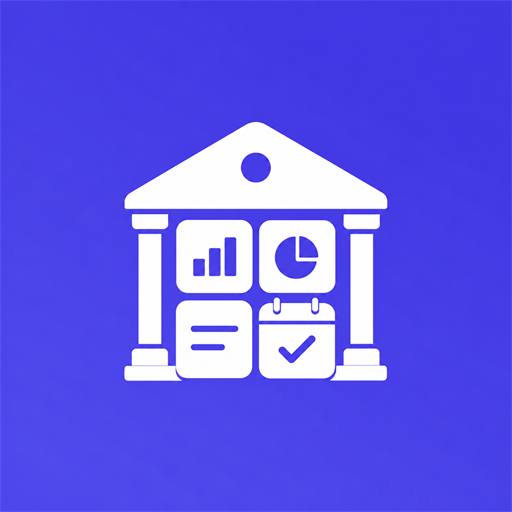
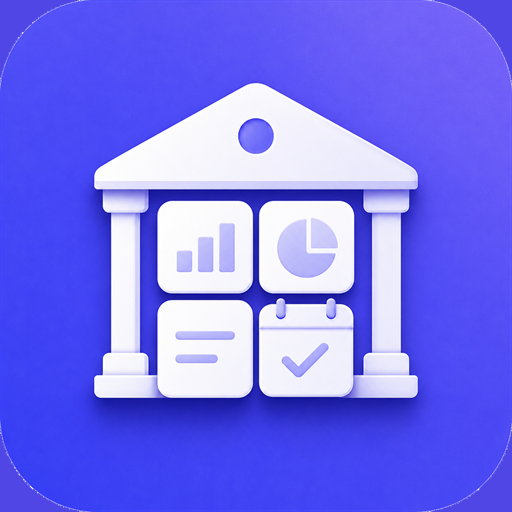
Updates

diff --git a/sw.js b/sw.js
@@ -1,1 +1,1 @@
-if(!self.define){let e,s={};const i=(i,n)=>(i=new URL(i+".js",n).href,s[i]||new Promise(s=>{if("document"in self){const e=document.createElement("script");e.src=i,e.onload=s,document.head.appendChild(e)}else e=i,importScripts(i),s()}).then(()=>{let e=s[i];if(!e)throw new Error(`Module ${i} didn’t register its module`);return e}));self.define=(n,r)=>{const a=e||("document"in self?document.currentScript.src:"")||location.href;if(s[a])return;let l={};const o=e=>i(e,a),c={module:{uri:a},exports:l,require:o};s[a]=Promise.all(n.map(e=>c[e]||o(e))).then(e=>(r(...e),l))}}define(["./workbox-63c18b4d"],function(e){"use strict";self.skipWaiting(),e.clientsClaim(),e.precacheAndRoute([{url:"registerSW.js",revision:"01feedaaee858261437ee36a95e5b0f5"},{url:"og-image.png",revision:"e5f325f8e57c8e29061d74c426bc3ab9"},{url:"mask-icon.svg",revision:"17a7c0df4b7935a849c2b92e3653cf59"},{url:"index.html",revision:"8eb09bfa2f98eb8b0834061c90863fc7"},{url:"icon.svg",revision:"f9aa3b03632e62e788f9b9372555b581"},{url:"icon-maskable-512.png",revision:"180561c6ed31e1e08f3e5bac0b4f52ac"},{url:"icon-maskable-192.png",revision:"df0dae24049a4fdb909b4f25446707ce"},{url:"icon-512.png",revision:"39393855d6c2c0730896ee270140f774"},{url:"icon-192.png",revision:"dad30ace929b205054b4407604926ae1"},{url:"favicon.ico",revision:"898a4054f8ff0d841a1479698848b114"},{url:"favicon-48.png",revision:"8a36c7af6d992f16b8efbb8dd238d898"},{url:"favicon-32.png",revision:"db1b9d541aecab57dfaf0c5002acb7b6"},{url:"favicon-16.png",revision:"69bf8a9f74080d64c9c84b8792c5397d"},{url:"apple-touch-icon.png",revision:"dab1c22f293b4b77b6bd1b7870f2994f"},{url:"assets/Settings-KMQ6da3e.js",revision:null},{url:"assets/Reports-CGHXIi2c.js",revision:null},{url:"assets/purify.es-Jn2rvFN8.js",revision:null},{url:"assets/Planner-mIQhO5uz.js",revision:null},{url:"assets/Nutrition-3pKaFdPH.js",revision:null},{url:"assets/MiniApp-pNsxGJJ8.js",revision:null},{url:"assets/Login-B6htjh1J.js",revision:null},{url:"assets/jspdf.es.min-DZIkDY1k.js",revision:null},{url:"assets/index.es-0nAElIcc.js",revision:null},{url:"assets/index-DvvV5v5A.css",revision:null},{url:"assets/index-C47PmC-k.js",revision:null},{url:"assets/html2canvas.esm-QH1iLAAe.js",revision:null},{url:"assets/exportService-DAe5WIlr.js",revision:null},{url:"assets/Export-DoZAGbJz.js",revision:null},{url:"assets/Duty-4Dt4R5Ty.js",revision:null},{url:"assets/Directory-D8Kb9rMW.js",revision:null},{url:"assets/Calendar-CtnVAS-_.js",revision:null},{url:"assets/Bells-33-nwUnu.js",revision:null},{url:"assets/Archive-C-_5RfmQ.js",revision:null},{url:"assets/Admin-DyzVG0VI.js",revision:null},{url:"assets/Absenteeism-BKiNDc8Q.js",revision:null},{url:"apple-touch-icon.png",revision:"dab1c22f293b4b77b6bd1b7870f2994f"},{url:"favicon-16.png",revision:"69bf8a9f74080d64c9c84b8792c5397d"},{url:"favicon-32.png",revision:"db1b9d541aecab57dfaf0c5002acb7b6"},{url:"favicon.ico",revision:"898a4054f8ff0d841a1479698848b114"},{url:"icon-192.png",revision:"dad30ace929b205054b4407604926ae1"},{url:"icon-512.png",revision:"39393855d6c2c0730896ee270140f774"},{url:"icon-maskable-192.png",revision:"df0dae24049a4fdb909b4f25446707ce"},{url:"icon-maskable-512.png",revision:"180561c6ed31e1e08f3e5bac0b4f52ac"},{url:"icon.svg",revision:"f9aa3b03632e62e788f9b9372555b581"},{url:"mask-icon.svg",revision:"17a7c0df4b7935a849c2b92e3653cf59"},{url:"og-image.png",revision:"e5f325f8e57c8e29061d74c426bc3ab9"},{url:"manifest.webmanifest",revision:"59817aa609a82de36bf79a464cf8d3df"}],{}),e.cleanupOutdatedCaches(),e.registerRoute(new e.NavigationRoute(e.createHandlerBoundToURL("index.html"))),e.registerRoute(/^https:\/\/fonts\.googleapis\.com\/.*/i,new e.CacheFirst({cacheName:"google-fonts-cache",plugins:[new e.ExpirationPlugin({maxEntries:10,maxAgeSeconds:31536e3}),new e.CacheableResponsePlugin({statuses:[0,200]})]}),"GET"),e.registerRoute(/^https:\/\/fonts\.gstatic\.com\/.*/i,new e.CacheFirst({cacheName:"gstatic-fonts-cache",plugins:[new e.ExpirationPlugin({maxEntries:10,maxAgeSeconds:31536e3}),new e.CacheableResponsePlugin({statuses:[0,200]})]}),"GET"),e.registerRoute(/^https:\/\/.*\.supabase\.co\/.*/i,new e.NetworkFirst({cacheName:"supabase-api-cache",plugins:[new e.ExpirationPlugin({maxEntries:100,maxAgeSeconds:7200})]}),"GET")});
+if(!self.define){let e,s={};const i=(i,n)=>(i=new URL(i+".js",n).href,s[i]||new Promise(s=>{if("document"in self){const e=document.createElement("script");e.src=i,e.onload=s,document.head.appendChild(e)}else e=i,importScripts(i),s()}).then(()=>{let e=s[i];if(!e)throw new Error(`Module ${i} didn’t register its module`);return e}));self.define=(n,r)=>{const a=e||("document"in self?document.currentScript.src:"")||location.href;if(s[a])return;let c={};const o=e=>i(e,a),l={module:{uri:a},exports:c,require:o};s[a]=Promise.all(n.map(e=>l[e]||o(e))).then(e=>(r(...e),c))}}define(["./workbox-63c18b4d"],function(e){"use strict";self.skipWaiting(),e.clientsClaim(),e.precacheAndRoute([{url:"registerSW.js",revision:"01feedaaee858261437ee36a95e5b0f5"},{url:"og-image.png",revision:"e5f325f8e57c8e29061d74c426bc3ab9"},{url:"mask-icon.svg",revision:"17a7c0df4b7935a849c2b92e3653cf59"},{url:"index.html",revision:"b95be95e00725da766fd3be64c628947"},{url:"icon.svg",revision:"f9aa3b03632e62e788f9b9372555b581"},{url:"icon-maskable-512.png",revision:"7da3c8002f290a10e1f7c473569139ee"},{url:"icon-maskable-192.png",revision:"cefe2aecdd1af5a74ced495b7735f384"},{url:"icon-96.png",revision:"f8c74aba986ebf466ee990310f2a50f2"},{url:"icon-72.png",revision:"e34bf856228b270ac63c6585155cabaf"},{url:"icon-512.png",revision:"7da3c8002f290a10e1f7c473569139ee"},{url:"icon-48.png",revision:"128cbf40f610dea869bd8dde7e64e965"},{url:"icon-192.png",revision:"cefe2aecdd1af5a74ced495b7735f384"},{url:"icon-144.png",revision:"998fc92b5fc9b5734cb64df88b1ae5c1"},{url:"favicon.ico",revision:"898a4054f8ff0d841a1479698848b114"},{url:"favicon-48.png",revision:"8a36c7af6d992f16b8efbb8dd238d898"},{url:"favicon-32.png",revision:"db1b9d541aecab57dfaf0c5002acb7b6"},{url:"favicon-16.png",revision:"69bf8a9f74080d64c9c84b8792c5397d"},{url:"apple-touch-icon.png",revision:"929f9406f3178b595012e50e9f2a6599"},{url:"assets/Settings-KMQ6da3e.js",revision:null},{url:"assets/Reports-CGHXIi2c.js",revision:null},{url:"assets/purify.es-Jn2rvFN8.js",revision:null},{url:"assets/Planner-mIQhO5uz.js",revision:null},{url:"assets/Nutrition-3pKaFdPH.js",revision:null},{url:"assets/MiniApp-pNsxGJJ8.js",revision:null},{url:"assets/Login-B6htjh1J.js",revision:null},{url:"assets/jspdf.es.min-DZIkDY1k.js",revision:null},{url:"assets/index.es-0nAElIcc.js",revision:null},{url:"assets/index-DvvV5v5A.css",revision:null},{url:"assets/index-C47PmC-k.js",revision:null},{url:"assets/html2canvas.esm-QH1iLAAe.js",revision:null},{url:"assets/exportService-DAe5WIlr.js",revision:null},{url:"assets/Export-DoZAGbJz.js",revision:null},{url:"assets/Duty-4Dt4R5Ty.js",revision:null},{url:"assets/Directory-D8Kb9rMW.js",revision:null},{url:"assets/Calendar-CtnVAS-_.js",revision:null},{url:"assets/Bells-33-nwUnu.js",revision:null},{url:"assets/Archive-C-_5RfmQ.js",revision:null},{url:"assets/Admin-DyzVG0VI.js",revision:null},{url:"assets/Absenteeism-BKiNDc8Q.js",revision:null},{url:"apple-touch-icon.png",revision:"929f9406f3178b595012e50e9f2a6599"},{url:"favicon-16.png",revision:"69bf8a9f74080d64c9c84b8792c5397d"},{url:"favicon-32.png",revision:"db1b9d541aecab57dfaf0c5002acb7b6"},{url:"favicon.ico",revision:"898a4054f8ff0d841a1479698848b114"},{url:"icon-144.png",revision:"998fc92b5fc9b5734cb64df88b1ae5c1"},{url:"icon-192.png",revision:"cefe2aecdd1af5a74ced495b7735f384"},{url:"icon-512.png",revision:"7da3c8002f290a10e1f7c473569139ee"},{url:"icon-96.png",revision:"f8c74aba986ebf466ee990310f2a50f2"},{url:"icon-maskable-192.png",revision:"cefe2aecdd1af5a74ced495b7735f384"},{url:"icon-maskable-512.png",revision:"7da3c8002f290a10e1f7c473569139ee"},{url:"icon.svg",revision:"f9aa3b03632e62e788f9b9372555b581"},{url:"mask-icon.svg",revision:"17a7c0df4b7935a849c2b92e3653cf59"},{url:"og-image.png",revision:"e5f325f8e57c8e29061d74c426bc3ab9"},{url:"manifest.webmanifest",revision:"4bb21a0b9cddb675187b3334b76ddd3e"}],{}),e.cleanupOutdatedCaches(),e.registerRoute(new e.NavigationRoute(e.createHandlerBoundToURL("index.html"))),e.registerRoute(/^https:\/\/fonts\.googleapis\.com\/.*/i,new e.CacheFirst({cacheName:"google-fonts-cache",plugins:[new e.ExpirationPlugin({maxEntries:10,maxAgeSeconds:31536e3}),new e.CacheableResponsePlugin({statuses:[0,200]})]}),"GET"),e.registerRoute(/^https:\/\/fonts\.gstatic\.com\/.*/i,new e.CacheFirst({cacheName:"gstatic-fonts-cache",plugins:[new e.ExpirationPlugin({maxEntries:10,maxAgeSeconds:31536e3}),new e.CacheableResponsePlugin({statuses:[0,200]})]}),"GET"),e.registerRoute(/^https:\/\/.*\.supabase\.co\/.*/i,new e.NetworkFirst({cacheName:"supabase-api-cache",plugins:[new e.ExpirationPlugin({maxEntries:100,maxAgeSeconds:7200})]}),"GET")});

diff --git a/index.html b/index.html
@@ -14,7 +14,9 @@
     <meta property="og:image:width" content="1200" />
     <meta property="og:image:height" content="630" />
     <!-- PWA enhancements -->
+    <meta name="application-name" content="Управление учреждением" />
     <meta name="mobile-web-app-capable" content="yes" />
+    <meta name="apple-mobile-web-app-capable" content="yes" />
     <meta name="apple-mobile-web-app-status-bar-style" content="default" />
     <meta name="apple-mobile-web-app-title" content="Управление учреждением" />
     <!-- Relative to Vite base (/zamenygymn/) — do not prefix base twice -->
@@ -22,7 +24,7 @@
     <link rel="icon" type="image/png" sizes="32x32" href="/zamenygymn/favicon-32.png" />
     <link rel="icon" type="image/png" sizes="16x16" href="/zamenygymn/favicon-16.png" />
     <link rel="icon" type="image/png" sizes="192x192" href="/zamenygymn/icon-192.png" />
-    <link rel="apple-touch-icon" href="/zamenygymn/apple-touch-icon.png" />
+    <link rel="apple-touch-icon" sizes="180x180" href="/zamenygymn/apple-touch-icon.png" />
     <link rel="mask-icon" href="/zamenygymn/mask-icon.svg" color="#4f46e5" />
     <title>Управление учреждением</title>
     <link rel="preconnect" href="https://fonts.googleapis.com">
